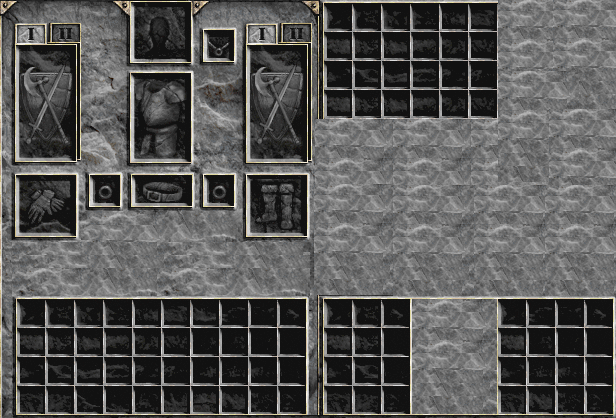
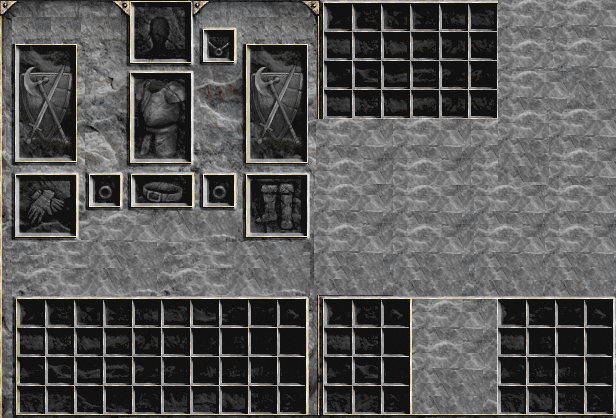
Disable Weapon Switch.

Changed region(s): [[0.0, 0.0311, 0.1542, 0.4043], [0.3701, 0.0311, 0.5244, 0.4043]]

diff --git a/GoMule/src/main/java/gomule/gui/D2ViewChar.java b/GoMule/src/main/java/gomule/gui/D2ViewChar.java
@@ -957,11 +957,13 @@ public class D2ViewChar extends JInternalFrame implements D2ItemContainer, D2Ite
                      */) {
                         int lX = pEvent.getX();
                         int lY = pEvent.getY();
+                        /*   ClassicD2R (no weapon switch)
                         if (((lX >= 16 && lX <= 45) || (lX >= 247 && lX <= 276)) && (lY >= 24 && lY <= 44)) {
                             setWeaponSlot(1);
                         } else if (((lX >= 51 && lX <= 80) || (lX >= 282 && lX <= 311)) && (lY >= 24 && lY <= 44)) {
                             setWeaponSlot(2);
                         }
+                        */
                         // determine where the mouse click is
                         D2ItemPanel lItemPanel = new D2ItemPanel(pEvent, true, false, false);
                         if (lItemPanel.getPanel() != -1) {
@@ -1618,11 +1620,13 @@ public class D2ViewChar extends JInternalFrame implements D2ItemContainer, D2Ite
                      */) {
                         int lX = pEvent.getX();
                         int lY = pEvent.getY();
+                        /*  ClassicD2R (No weapon switch)
                         if (((lX >= 16 && lX <= 45) || (lX >= 247 && lX <= 276)) && (lY >= 24 && lY <= 44)) {
                             setWeaponSlot(1);
                         } else if (((lX >= 51 && lX <= 80) || (lX >= 282 && lX <= 311)) && (lY >= 24 && lY <= 44)) {
                             setWeaponSlot(2);
                         }
+                        */
 
 
                     }
